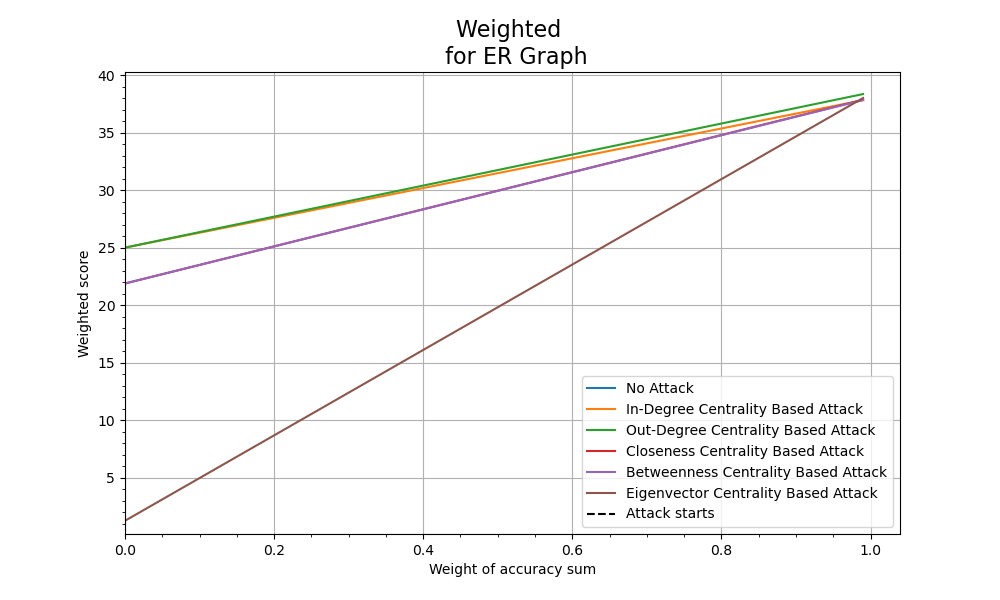
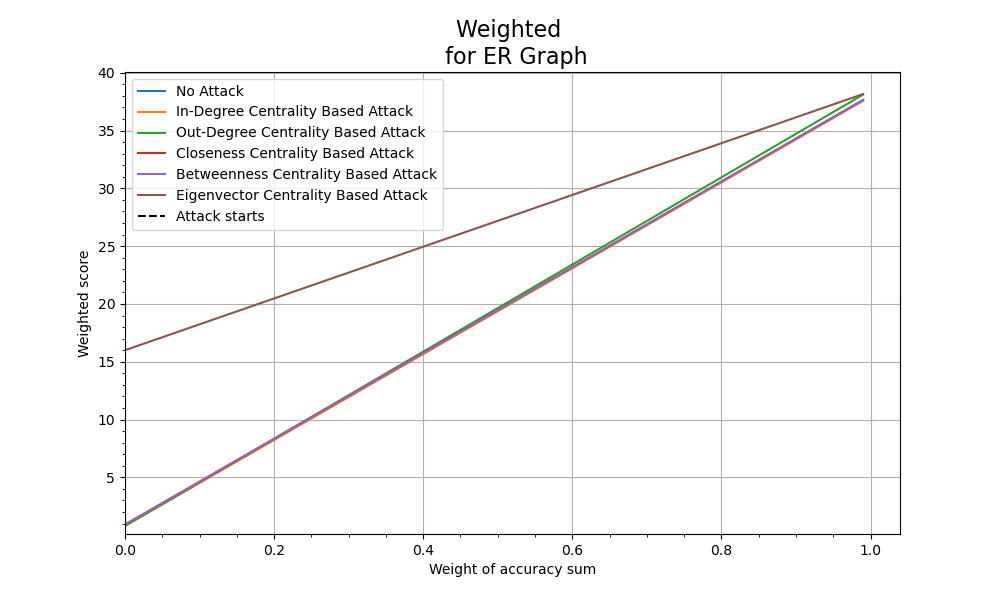
more data

diff --git a/code/simulation_code/plot_data.py b/code/simulation_code/plot_data.py
@@ -903,7 +903,7 @@ def plot_scored_tradeoff_time_centrality(graph_type_used = '', dataset_name = 'f
     acc_data = []
     root_dir = ''
     cent_name_dir = {'none':'No Attack', 'in_deg_centrality': 'In-Degree Centrality Based Attack', 'out_deg_centrality': 'Out-Degree Centrality Based Attack', 'closeness_centrality' :'Closeness Centrality Based Attack', 'betweeness_centrality' :'Betweenness Centrality Based Attack', 'eigenvector_centrality': 'Eigenvector Centrality Based Attack'}
-    weight_prop_constant = 10000
+    weight_prop_constant = 500
     # Get distinct settings
     acc_diff_fnames = set()
     for root, dirs, files in os.walk(dir_data):
@@ -970,7 +970,7 @@ def plot_scored_tradeoff_time_centrality(graph_type_used = '', dataset_name = 'f
                 cent_time_eff['closeness_centrality'] = prob_conn * n_clients * (n_clients - 1) / 2 + n_clients ** 2
 
             weights_cents = [float(x) / 100 for x in range(100)]
-            cent_weighted_data = {cent:[combined_acc[cent] * weight + (weight_prop_constant / cent_time_eff[cent]) * (1 - weight) for weight in weights_cents] for cent in cent_time_eff.keys()}
+            cent_weighted_data = {cent:[combined_acc[cent] * weight + (cent_time_eff[cent] / weight_prop_constant) * (1 - weight) for weight in weights_cents] for cent in cent_time_eff.keys()}
             cent_weighted_data['none'] = [0 for x in cent_weighted_data['none']]
             print(cent_weighted_data['out_deg_centrality'])
             # Plot the accuracies
